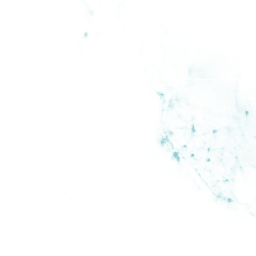
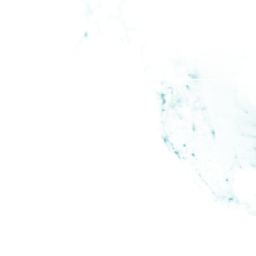
final

diff --git a/templates/index.html b/templates/index.html
@@ -3,8 +3,9 @@
           <div class="px-4 pt-5 my-5 text-center border-bottom">
             <div>
               <h1 class="display-4 fw-bold text-body-emphasis">Utah Weather and Air Data</h1>
+              <br>
               <div class="col-lg-6 mx-auto">
-                <p class="lead mb-4">Quickly see satellite images, graphs, raw data and trends for Salt Lake City weather and air quality</p>
+                <p class="lead mb-4">Explore to see hourly updated satellite images of Utah weather conditions</p>
             </div>
           </div>
           <div class="container">  
@@ -16,24 +17,24 @@
               </div>
               <div class="carousel-inner">
                 <div class="carousel-item active">
-                  <a href='{{ url_for("precip") }}'><img src="../static/img/home_page_imgs/precipitation.jpg" class="d-block w-100" alt="..."></a>
+                  <a href='{{ url_for("precip") }}'><img src="../static/img/home_page_imgs/precipitation.jpg" class="d-block w-100 format" alt="..."></a>
                   <div class="carousel-caption d-none d-md-block">
                     <h5>Precipitation Data</h5>
-                    <p>See current and past precipitation data for Salt Lake City</p>
+                    <p>See current precipitation data for Salt Lake City</p>
                   </div>
                 </div>
                 <div class="carousel-item">
-                  <a href="{{ url_for('air_q') }}"><img src="../static/img/home_page_imgs/air-quality-4998.jpg" class="d-block w-100" alt="..."></a>
+                  <a href="{{ url_for('air_q') }}"><img src="../static/img/home_page_imgs/air-quality-4998.jpg" class="d-block w-100 format" alt="..."></a>
                   <div class="carousel-caption d-none d-md-block">
                     <h5>Air Quality Data</h5>
                     <p>See current Air Quality Data for Salt Lake City</p>
                   </div>
                 </div>
                 <div class="carousel-item">
-                  <a href="{{ url_for('temp') }}"><img src="../static/img/home_page_imgs/temperature.jpg" class="d-block w-100" alt="..."></a>
+                  <a href="{{ url_for('temp') }}"><img src="../static/img/home_page_imgs/temperature.jpg" class="d-block w-100 format" alt="..."></a>
                   <div class="carousel-caption d-none d-md-block">
                     <h5>Temperture and Wind Data</h5>
-                    <p>See current and predicted temperature and wind data for Salt Lake City</p>
+                    <p>See current temperature and wind data for Salt Lake City</p>
                   </div>
                 </div>
               </div>

diff --git a/templates/layout.html b/templates/layout.html
@@ -50,7 +50,7 @@
                 <a href="/" class="mb-3 me-2 mb-md-0 text-body-secondary text-decoration-none lh-1">
                   <svg class="bi" width="30" height="24"><use xlink:href="#bootstrap"></use></svg>
                 </a>
-                <span class="mb-3 mb-md-0 text-body-secondary">Tanner Rima<br> Contact Me:<br>tcr2345@gmail.com<br>385-209-5577</span>
+                <span class="mb-3 mb-md-0 text-body-secondary">Created by Tanner Rima, tcr2345@gmail.com</span>
               </div>
           
               <ul class="nav col-md-4 justify-content-end list-unstyled d-flex">

diff --git a/static/css/style.css b/static/css/style.css
@@ -21,6 +21,11 @@ width: 600px;}
   width: 600px;
 }
 
+.format{
+  width: 800px;
+  height: 800px;
+}
+
 .form{
   padding-top: 100px;
 }

diff --git a/weather.py b/weather.py
@@ -65,7 +65,14 @@ def temp():
     try:
         with open("weather_data.json", "r") as file:
             weather_path = json.load(file)
-            return render_template('temperature.html', dewpoint=weather_path['dewPoint'], temp= weather_path['temperature'], temp_app= weather_path['temperatureApparent'], wind_dir= weather_path['windDirection'], wind_gust= weather_path['windGust'], wind_speed= weather_path['windSpeed'], success=True)
+            return render_template('temperature.html', 
+                                   dewpoint=weather_path['dewPoint'], 
+                                   temp= weather_path['temperature'], 
+                                   temp_app= weather_path['temperatureApparent'], 
+                                   wind_dir= weather_path['windDirection'], 
+                                   wind_gust= weather_path['windGust'], 
+                                   wind_speed= weather_path['windSpeed'], 
+                                   success=True)
     except:
         return render_template('temperature.html', success=False)    
 
@@ -75,7 +82,18 @@ def precip():
     try:
         with open("weather_data.json", "r") as file:
             weather_path = json.load(file)
-            return render_template('precipitation.html', cloudBase = weather_path['cloudBase'], cloudCeiling = weather_path['cloudCeiling'], visibility= weather_path['visibility'], precip_probability= weather_path['precipitationProbability'], humidity= weather_path['humidity'], pressure=weather_path['pressureSurfaceLevel'], rain_intensity= weather_path['rainIntensity'], sleet_intensity = weather_path['sleetIntensity'], snow_intensity=weather_path['snowIntensity'], success=True, api_key = os.getenv('API_KEY'))
+            return render_template('precipitation.html', 
+                                   cloudBase = weather_path['cloudBase'], 
+                                   cloudCeiling = weather_path['cloudCeiling'], 
+                                   visibility= weather_path['visibility'], 
+                                   precip_probability= weather_path['precipitationProbability'], 
+                                   humidity= weather_path['humidity'], 
+                                   pressure=weather_path['pressureSurfaceLevel'], 
+                                   rain_intensity= weather_path['rainIntensity'], 
+                                   sleet_intensity = weather_path['sleetIntensity'], 
+                                   snow_intensity=weather_path['snowIntensity'], 
+                                   success=True, 
+                                   api_key = os.getenv('API_KEY'))
     except:
         return render_template('precipitation.html', success=False)
 
